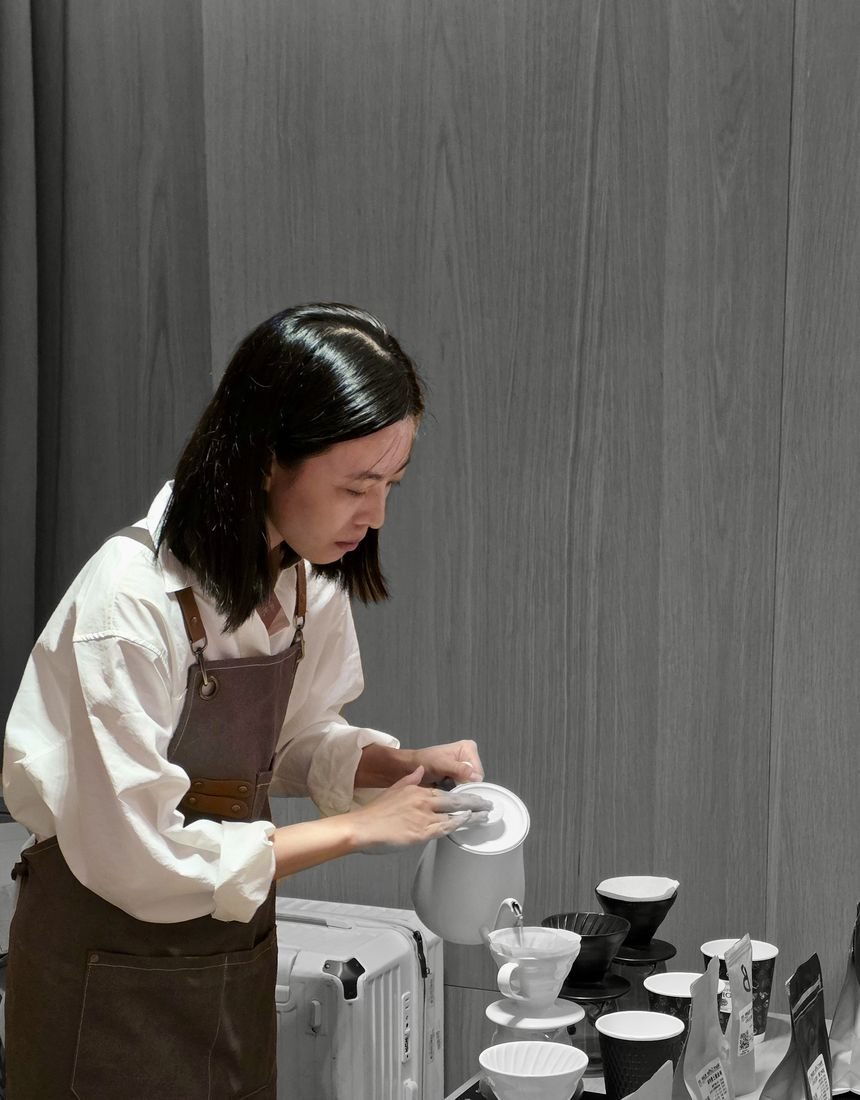
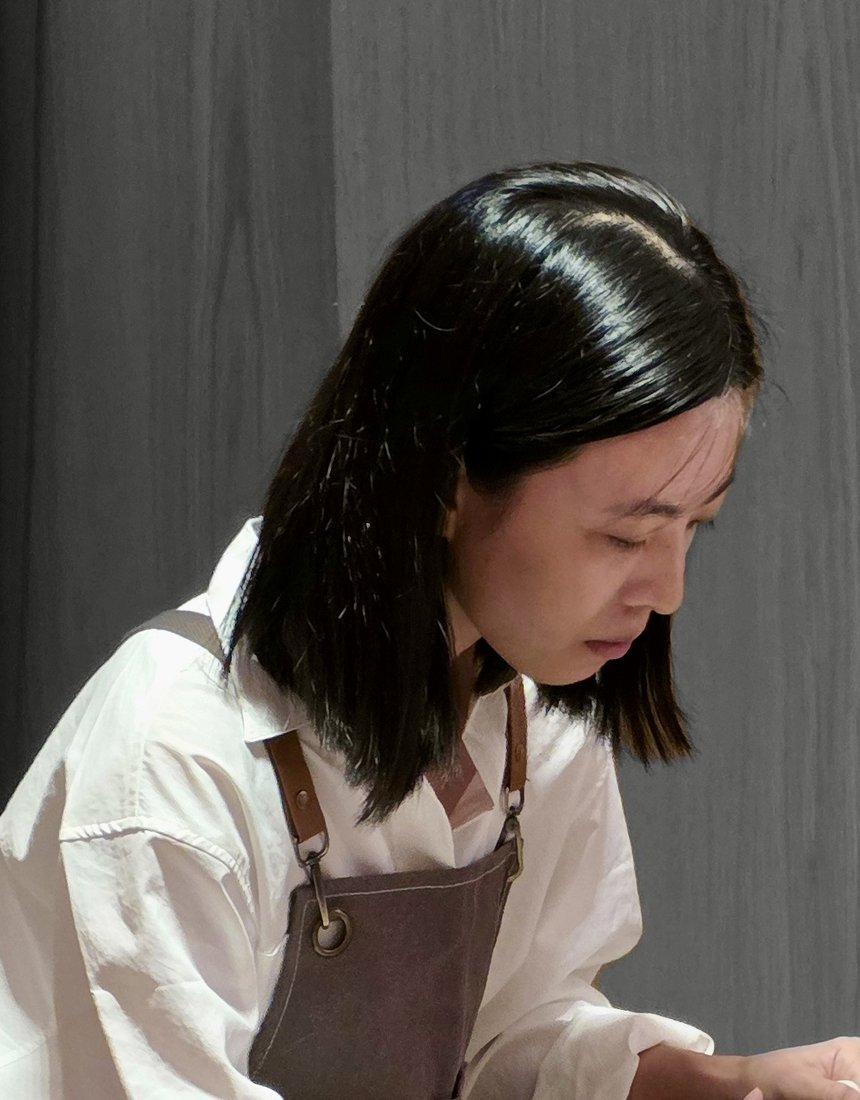
Center Lulu in instructor card photo
Recrop the portrait so she sits mid-frame and tune object-position for the card.

diff --git a/styles.css b/styles.css
@@ -173,15 +173,4 @@ h2 { margin: 0 0 .75rem; font-family: var(--serif); font-size: clamp(1.7rem, 3.2
 
 .story-photos .shot.tall img { height: 460px; object-fit: cover; object-position: center top; }
 
-.line-friend {
-  display: inline-flex;
-  align-items: center;
-  justify-content: center;
-  line-height: 0;
-  border-radius: 8px;
-  transition: transform .15s ease, opacity .15s ease;
-}
-.line-friend:hover { transform: translateY(-1px); opacity: .95; }
-.line-friend img { height: 44px; width: auto; display: block; }
-.line-friend-sm img { height: 36px; }
-.site-nav .line-friend { margin-left: .25rem; }
+.instructor-card img[alt="講師露露"] { object-position: 50% 18%; }
